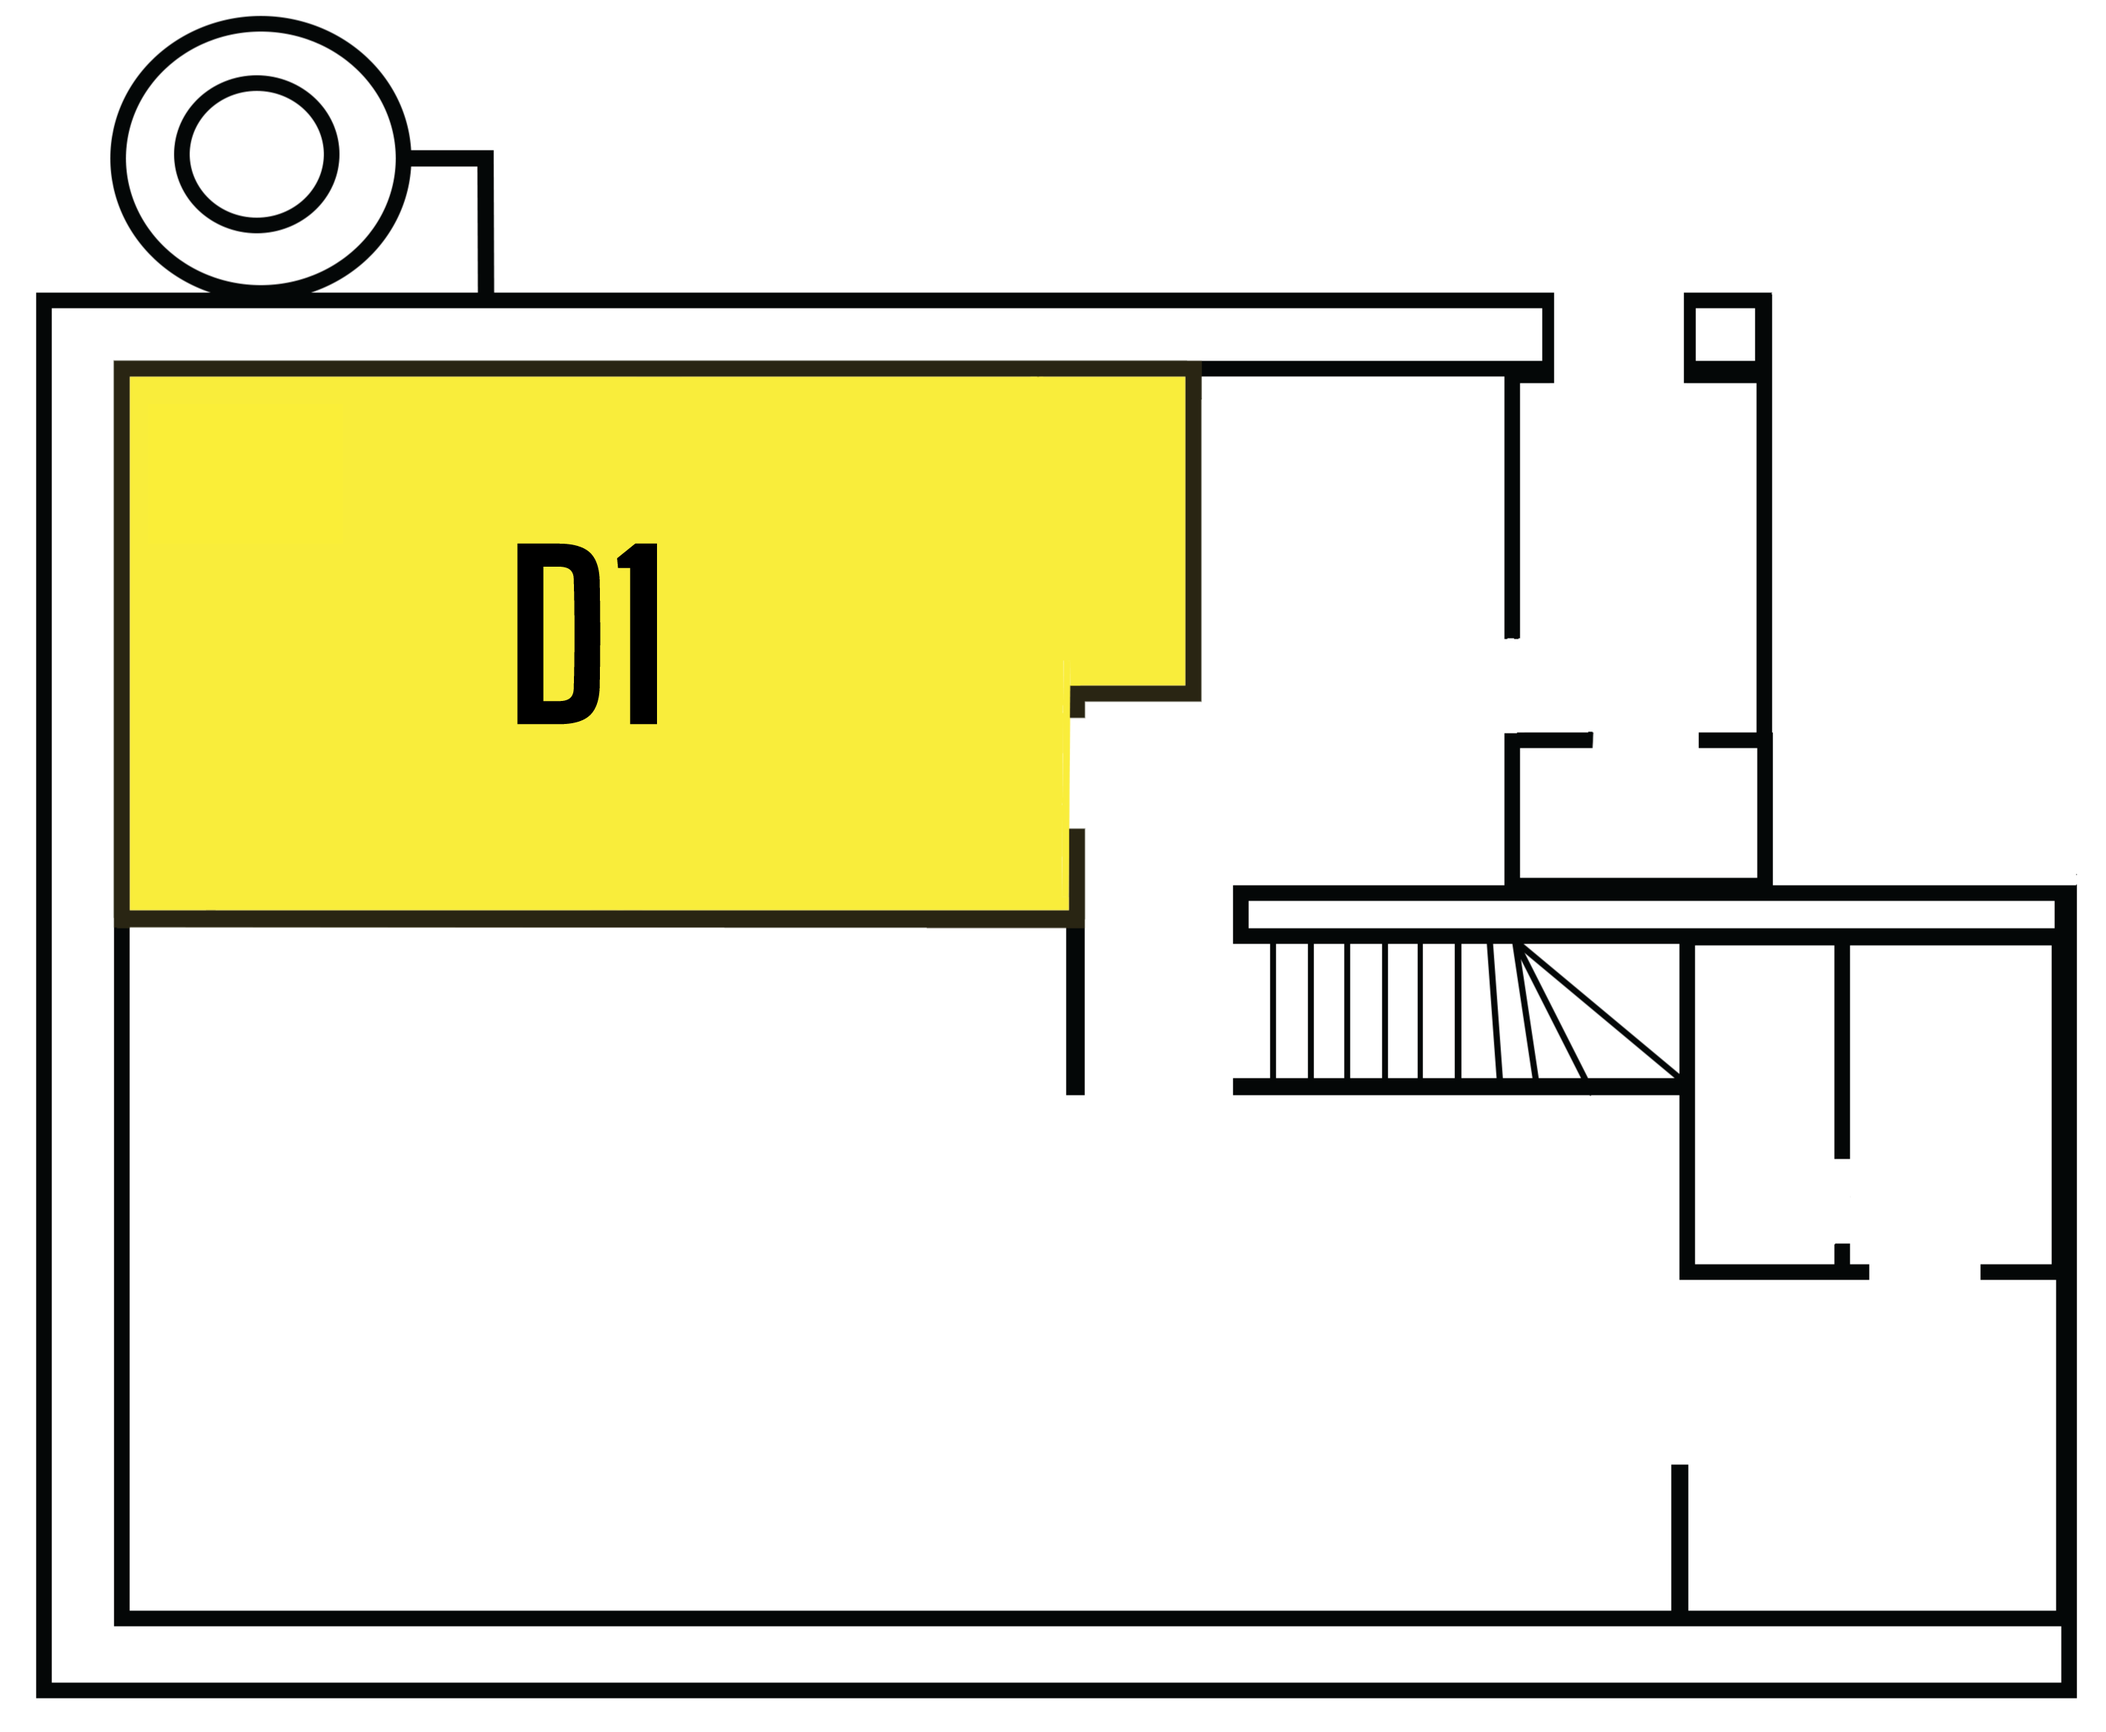
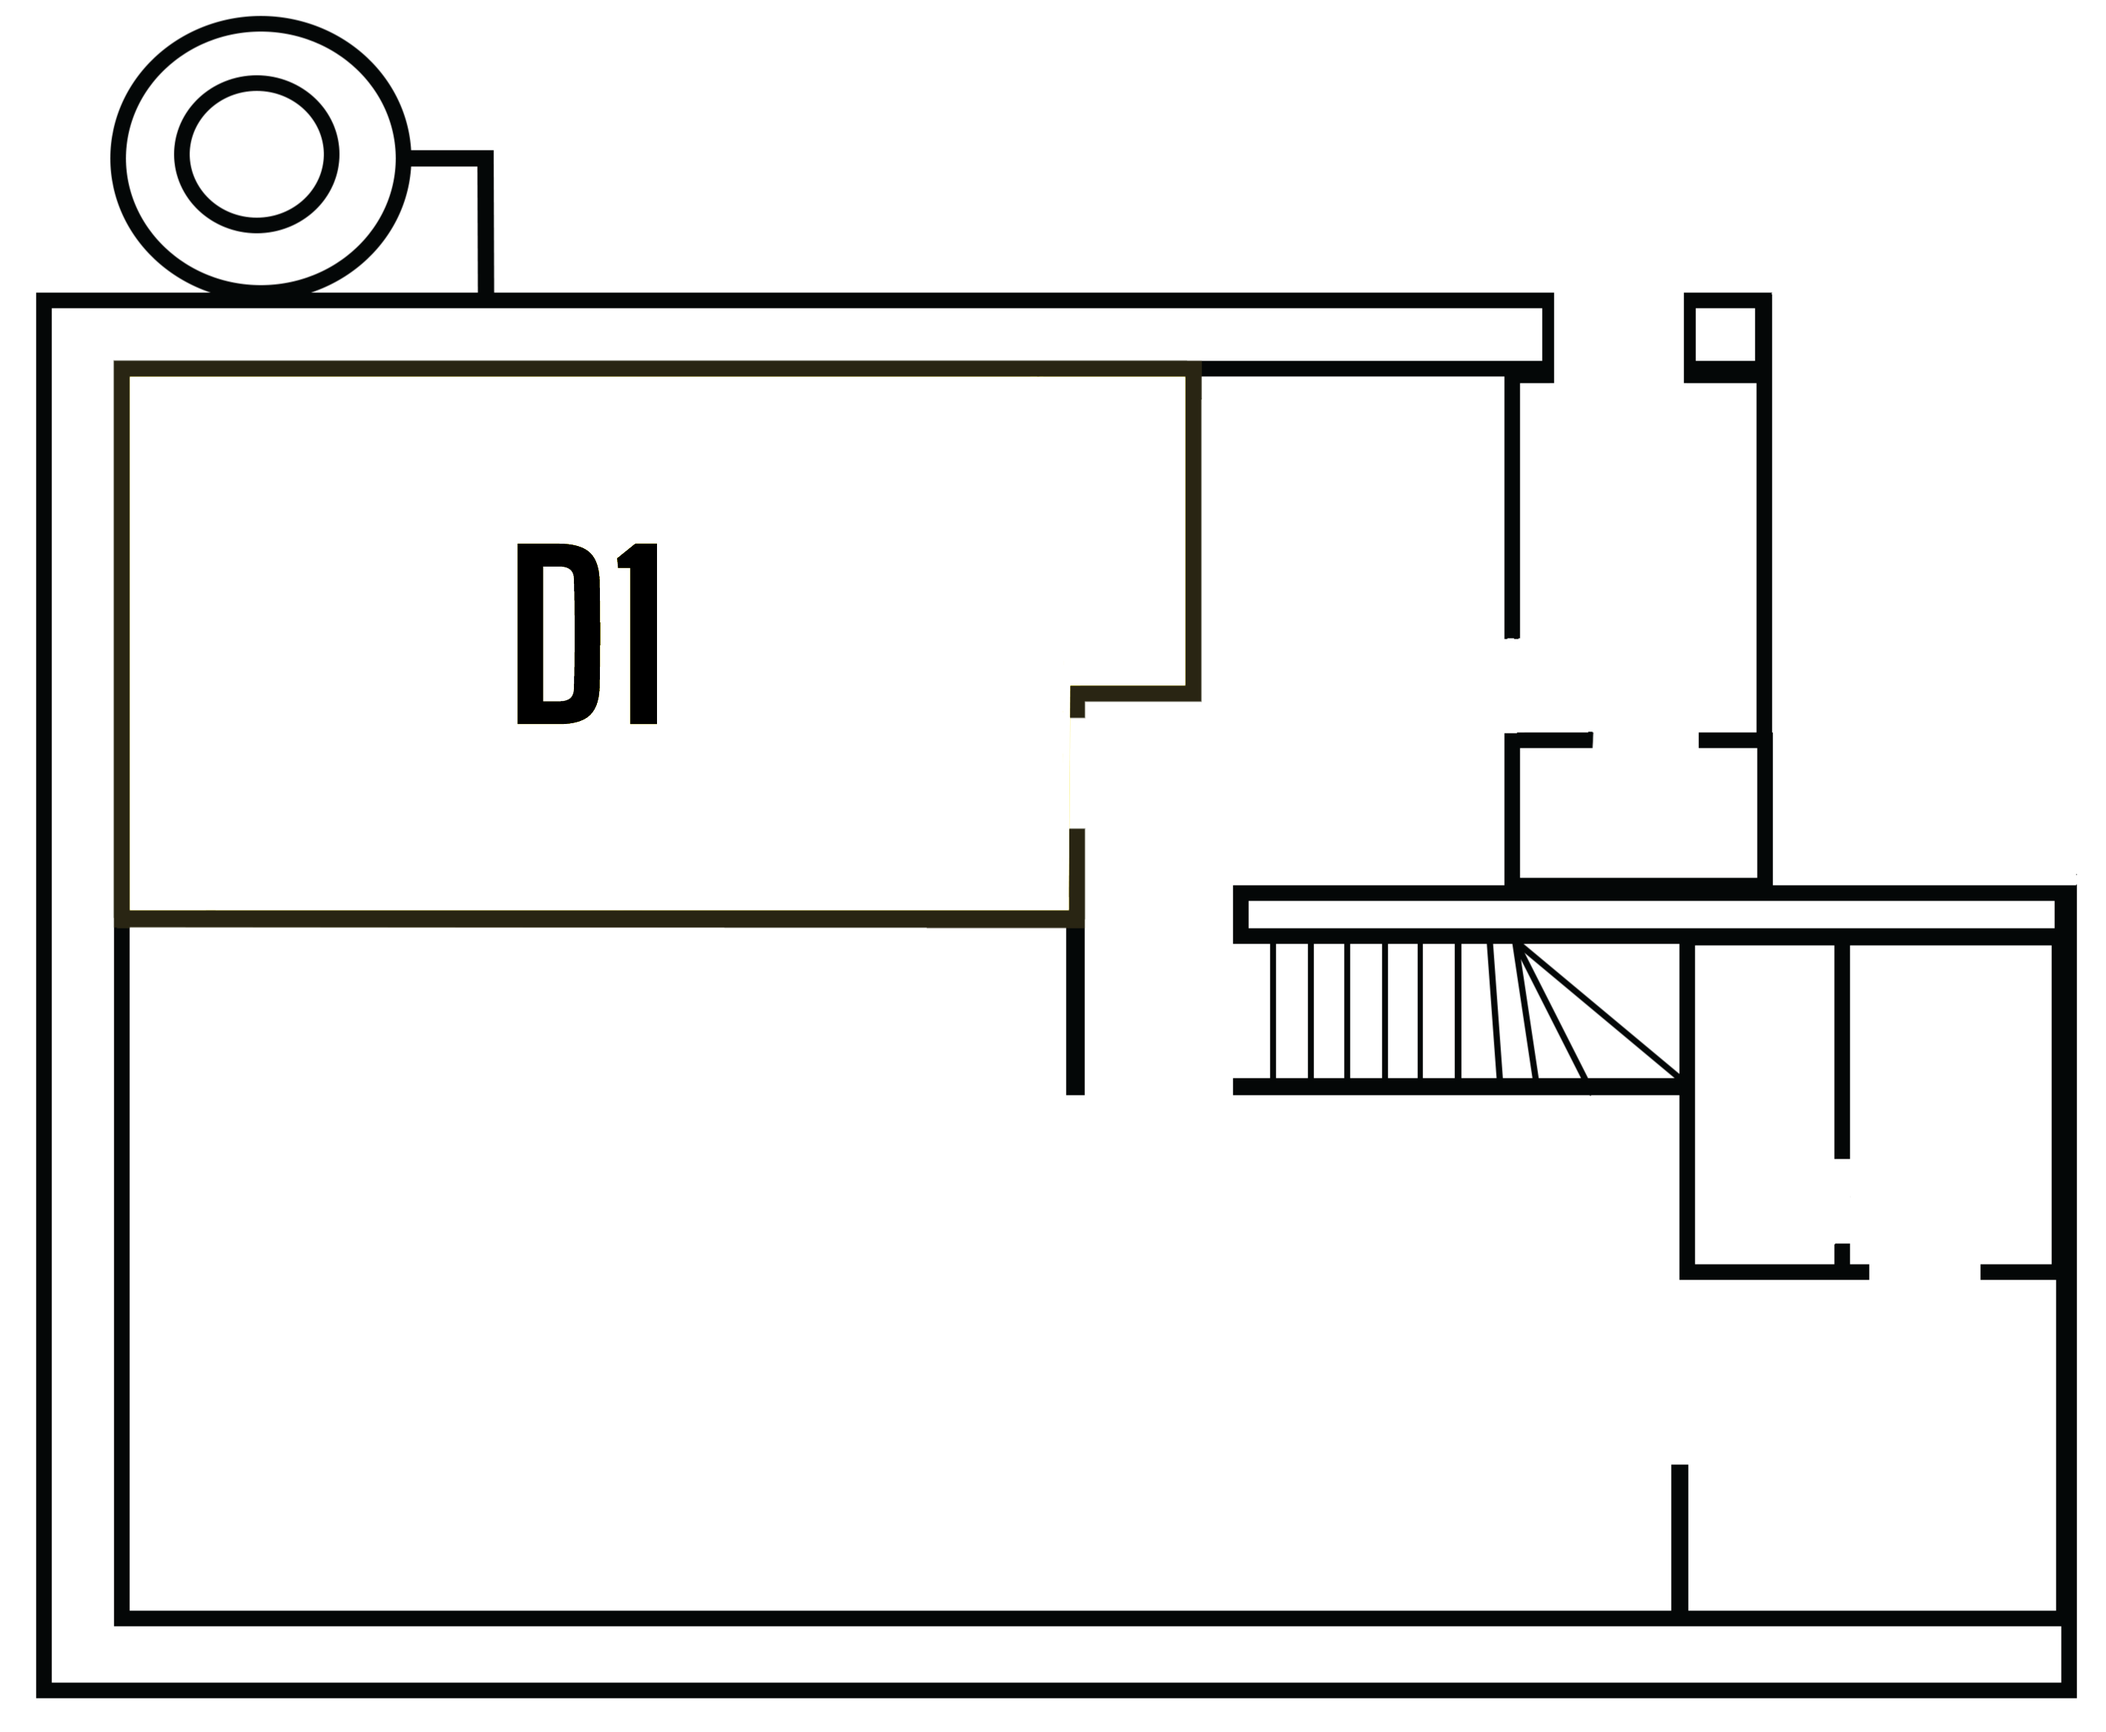
Vång 1 i D-huset utbytt

Changed region(s): [[0.062, 0.2158, 0.5887, 0.5242]]

diff --git a/CHANGELOG.md b/CHANGELOG.md
@@ -1,5 +1,8 @@
 # Changelog – Öppet hus-appen
 
+## 2.7
+- Ny planritning för D-byggnadens första våning (`public/karta/D1.png`). D1 har inte längre gul fyllning.
+
 ## 2.6
 - Knapparna på översiktskartan har färg per byggnad: A gul, Musikstudion cyan, C magenta,
   D grön, Fakiren vit, B orange. Färgen ställs in med `color` i `src/data/salar.js`.
